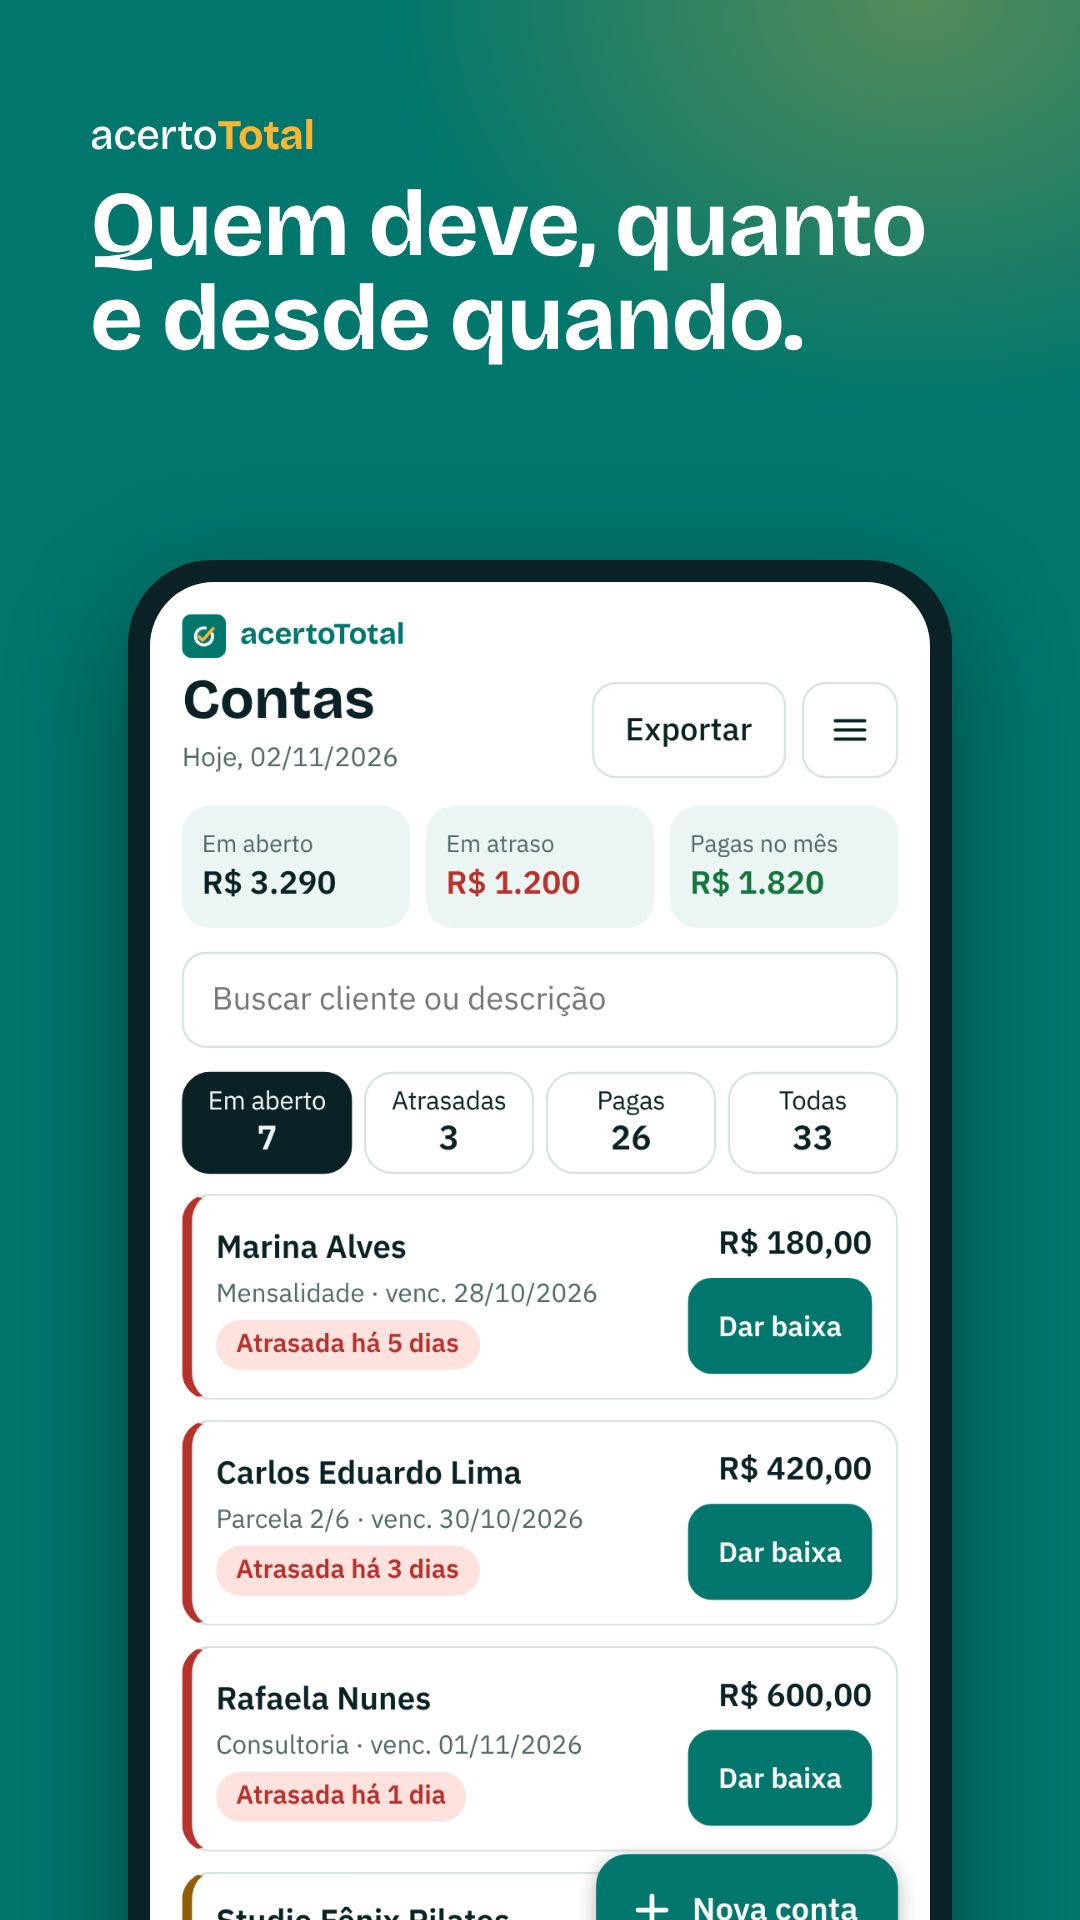
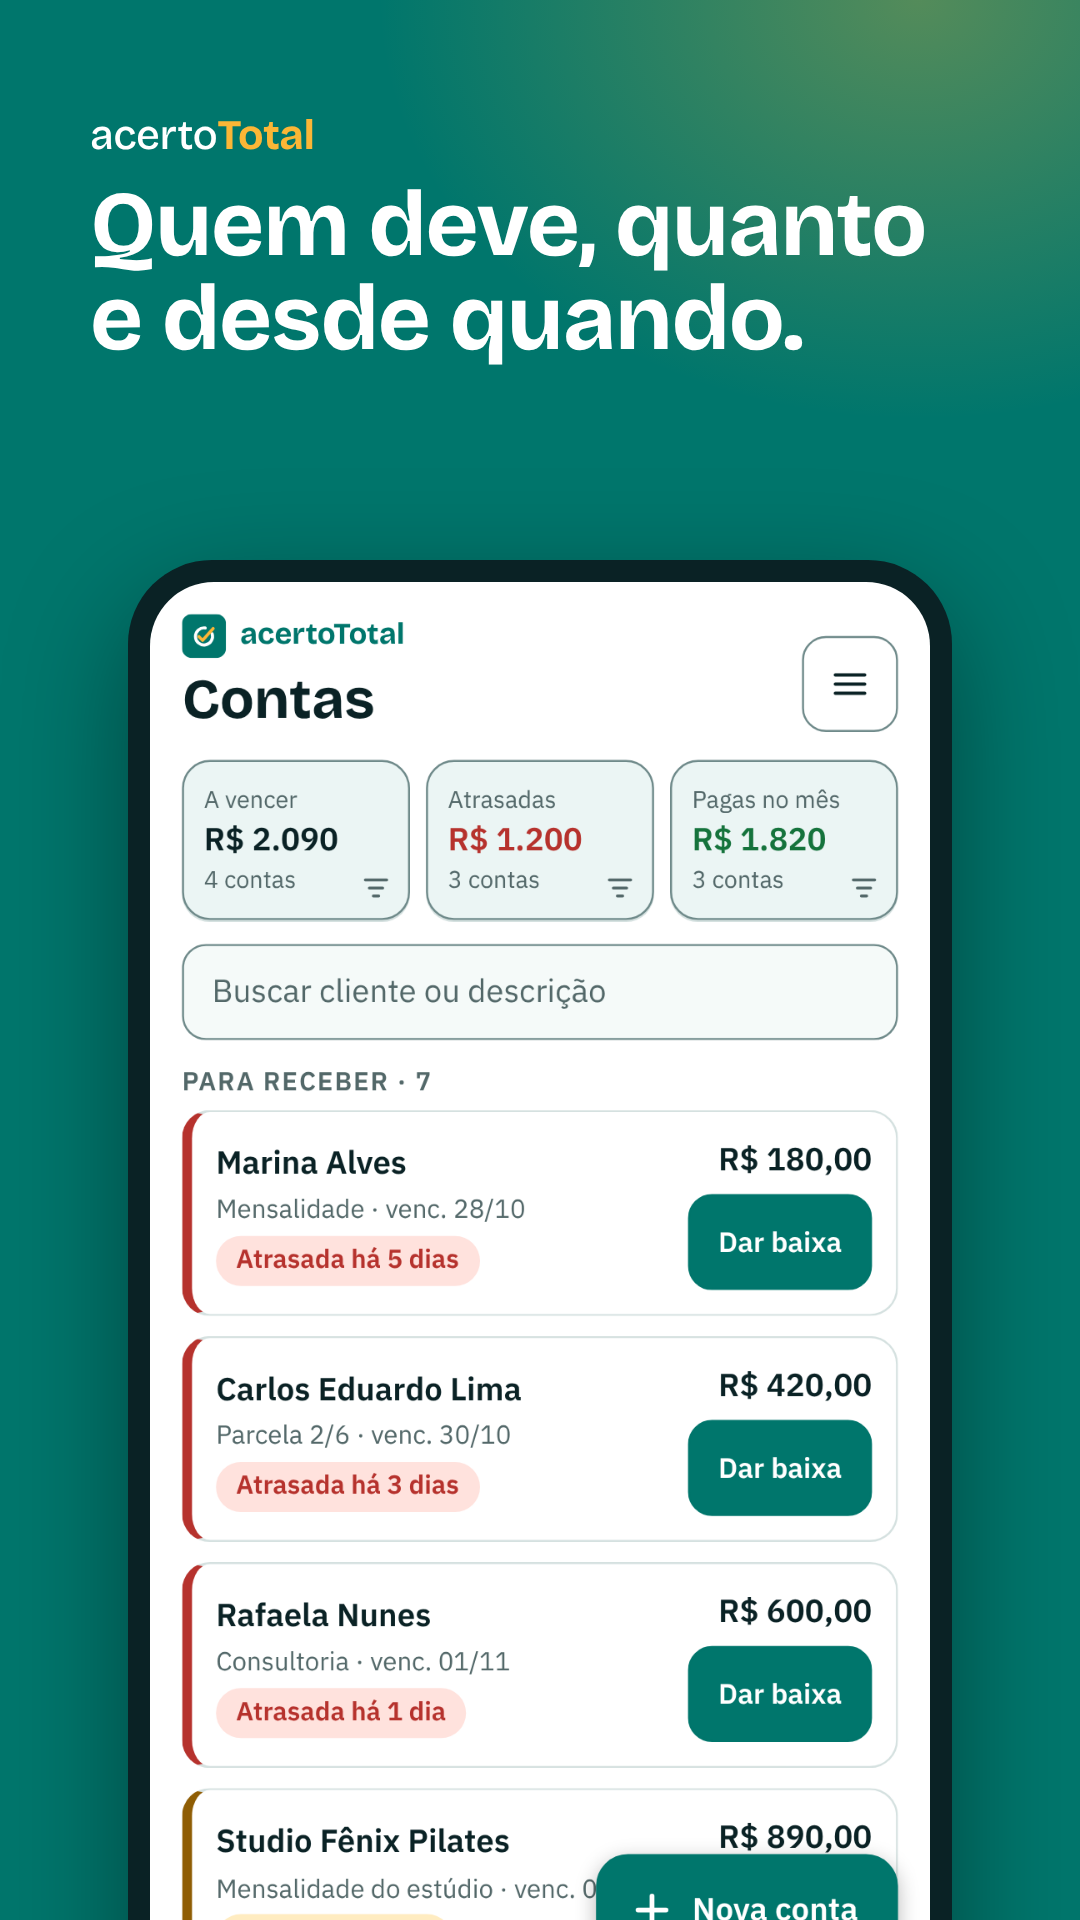
Loja 0.9.7: 8 capturas novas (Cobrar no WhatsApp em 2º) e ficha com a seção do WhatsApp
- gerar-capturas.js ajustado à tela nova; Meu negócio preenchido na captura de cobrança.
- Descrição curta (69) e completa com Cobre pelo WhatsApp, editar conta e filtros novos.
- Entrada A-041.

Claude-Session: https://claude.ai/code/session_01J62MCWX5zcbR5fnQHBq9k2

diff --git a/playstore/gerar-capturas.js b/playstore/gerar-capturas.js
@@ -25,24 +25,24 @@ await a.click('.crow .btn.primary');
 await a.setInputFiles('#fcomp',{name:'comprovante-pix.jpg',mimeType:'image/jpeg',buffer:Buffer.from(jpg,'base64')});
 await a.waitForFunction(()=>/Anexado/.test(document.getElementById('compname').textContent));
 await a.click('[data-act=baixa]');await a.waitForTimeout(300);
-// Cópia de segurança feita hoje (some o aviso amarelo e o selo vermelho "Nunca feita")
-await a.evaluate(()=>{const s=JSON.parse(localStorage.getItem('baixa-pix-v2'));s.ultimoBackup=new Date().toISOString().slice(0,10);localStorage.setItem('baixa-pix-v2',JSON.stringify(s))});
+// Cópia de segurança feita hoje (sem ponto vermelho no ☰ nem "Nunca feita") e "Meu negócio" preenchido (a cobrança mostra o Pix)
+await a.evaluate(()=>{const s=JSON.parse(localStorage.getItem('baixa-pix-v2'));s.ultimoBackup=new Date().toISOString().slice(0,10);s.negocio={nome:'Ana Costa · Doces e Bolos',pix:'contato@anacostadoces.com.br'};localStorage.setItem('baixa-pix-v2',JSON.stringify(s))});
 await a.reload();await a.waitForSelector('.crow');await a.waitForTimeout(1500);
 const raw=[];const tela=async n=>{await a.waitForTimeout(600);const f=S+'raw3-'+n+'.png';await a.screenshot({path:f});raw.push(f)};
 const volta=async()=>{await a.evaluate(()=>{while(window.acertoVoltar&&window.acertoVoltar());document.getElementById('screen').scrollTop=0});await a.waitForTimeout(200)};
-await tela(1);                                                             // Contas
-await a.click('.tabs [data-tab=clientes]');await tela(2);                  // Clientes
-await a.click('.tabs [data-tab=numeros]');await a.click('[data-act=periodo][data-p="3"]');await tela(3); // Números, 3 meses
-await a.click('.tabs [data-tab=planilha]');await tela(4);                  // Planilha
-await a.click('#screen [data-act=import-abrir]');await tela(5);            // Importar
-await volta();await a.click('.tabs [data-tab=contas]');await a.click('[data-act=filter][data-f=pagas]');
-await a.click(`.cmain[data-id="${compId}"]`);await tela(6);                // Conta paga com comprovante
-await volta();await a.click('.tabs [data-tab=clientes]');await a.click('#screen .row');await tela(7); // Ficha do cliente
-await volta();await a.click('.tabs [data-tab=contas]');await a.click('[data-act=filter][data-f=abertas]');await a.click('.fab');
+// A ordem importa: as primeiras capturas são as que mais aparecem na loja.
+await tela(1);                                                                                   // 1 Contas
+await a.click('.crow .cmain');await a.click('.sheet [data-act=cobrar]');await tela(2);           // 2 Cobrar pelo WhatsApp
+await volta();await a.click('.strip [data-f=pagas]');await a.click(`.cmain[data-id="${compId}"]`);await tela(3); // 3 Comprovante
+await volta();await a.click('.tabs [data-tab=clientes]');await tela(4);                         // 4 Clientes
+await a.click('.tabs [data-tab=numeros]');await a.click('[data-act=periodo][data-p="3"]');await tela(5); // 5 Números, 3 meses
+await a.click('.tabs [data-tab=planilha]');await tela(6);                                       // 6 Planilha
+await a.click('#screen [data-act=import-abrir]');await a.click('details.como > summary');await a.evaluate(()=>{document.querySelector('.sheet').scrollTop=0});await tela(7); // 7 Importar
+await volta();await a.click('.tabs [data-tab=contas]');await a.click('.strip [data-f=pagas]');await a.click('.fab'); // tira o filtro de Pagas
 await a.selectOption('#nc-cli',{index:3});await a.fill('#nc-desc','Mensalidade de dezembro');await a.fill('#nc-val','150,00');
-await a.click('.sheet h2');await tela(8);                                  // Nova conta preenchida
-const TIT=[['Quem deve, quanto','e desde quando.'],['Cada cliente pelo','CPF ou CNPJ.'],['Quanto entrou','e quanto falta.'],['Excel de ida','e de volta.'],['Confira tudo','antes de gravar.'],['Dê baixa e guarde','o comprovante.'],['Tudo de cada','cliente numa tela.'],['Cadastre uma conta','em poucos toques.']];
-const NOMES=['contas','clientes','numeros','planilha','importar','comprovante','cliente','nova-conta'];
+await a.click('.sheet h2');await tela(8);                                                       // 8 Nova conta preenchida
+const TIT=[['Quem deve, quanto','e desde quando.'],['Cobre no WhatsApp,','texto já pronto.'],['Dê baixa e guarde','o comprovante.'],['Quanto cada','cliente deve.'],['Quanto entrou','e quanto falta.'],['Excel de ida','e de volta.'],['Confira tudo','antes de gravar.'],['Cadastre uma conta','em poucos toques.']];
+const NOMES=['contas','cobrar','comprovante','clientes','numeros','planilha','importar','nova-conta'];
 fs.readdirSync(OUT+'capturas').forEach(f=>fs.unlinkSync(OUT+'capturas/'+f));
 const p=await b.newPage({viewport:{width:1080,height:1920}});
 for(let i=0;i<8;i++){

diff --git a/playstore/FICHA.md b/playstore/FICHA.md
@@ -41,8 +41,8 @@ Sai em `android/app/build/outputs/bundle/producaoRelease/app-producao-release.aa
 
 **Nome (até 30):** `acertoTotal: Contas a Receber`
 
-**Descrição curta (até 80, esta tem 77):**
-Saiba quem te deve e há quanto tempo. Dê baixa com comprovante e use o Excel.
+**Descrição curta (até 80, esta tem 69):**
+Saiba quem te deve, cobre pelo WhatsApp e dê baixa com o comprovante.
 
 **Descrição completa (até 4.000):**
 Chega de caderninho de fiado e de planilha bagunçada. O acertoTotal mostra, numa tela só, quem te deve, quanto e desde quando. É feito para quem vende e cobra depois: autônomos, pequenas lojas, academias, escolas, entregadores e prestadores de serviço.
@@ -50,11 +50,16 @@ Chega de caderninho de fiado e de planilha bagunçada. O acertoTotal mostra, num
 QUEM DEVE, NA HORA
 • Veja o total em aberto, o que está em atraso e o que entrou no mês.
 • Cada conta diz a situação por escrito: "Atrasada há 5 dias", "Vence em 3 dias", "Paga em 02/11".
-• Filtre por Em aberto, Atrasadas, Pagas ou Todas, e busque pelo nome do cliente.
+• Toque em A vencer, Atrasadas ou Pagas no mês para filtrar, e busque pelo nome do cliente ou pela descrição.
+
+COBRE PELO WHATSAPP
+• Toque em "Cobrar no WhatsApp" e a mensagem já vem pronta: o que o cliente deve, o vencimento e há quantos dias está atrasado.
+• Cadastre a sua chave Pix uma vez e ela vai em toda cobrança.
+• Confira e mude o texto antes de mandar. Quem envia é você, no seu WhatsApp.
 
 CLIENTES PELO CPF OU CNPJ
 • Cada cliente é identificado pelo CPF ou CNPJ, sem cadastro repetido.
-• Abra o cliente e veja todas as contas dele, quanto deve e o contato.
+• Abra o cliente e veja todas as contas dele, quanto deve e o contato. Errou um valor? Edite a conta.
 
 DÊ BAIXA COM O COMPROVANTE
 • Marque a conta como paga com um toque.
@@ -82,7 +87,7 @@ Use todos os recursos de graça no período de teste. Depois, o app continua abe
 
 O acertoTotal não movimenta dinheiro: ele não faz nem recebe pagamentos. Ele organiza o que você tem a receber.
 
-**Imagens** (em `playstore/`): `icone-512.png`, `grafico-destaque-1024x500.png` e as 8 capturas de `capturas/` (1080×1920), nesta ordem: Contas, Clientes, Números, Planilha, Importar, Comprovante, Cliente, Nova conta.
+**Imagens** (em `playstore/`): `icone-512.png`, `grafico-destaque-1024x500.png` e as 8 capturas de `capturas/` (1080×1920), nesta ordem: Contas, Cobrar no WhatsApp, Comprovante, Clientes, Números, Planilha, Importar, Nova conta.
 
 ## 5. Segurança dos dados (respostas)
 

diff --git a/docs/aprendizados.md b/docs/aprendizados.md
@@ -133,6 +133,18 @@ Cada regra tem um teste que a verifica. A suíte aparece entre colchetes.
 
 As entradas mais recentes ficam no topo.
 
+### A-041 · 02/11/2026 · Capturas e textos da loja para a 0.9.7
+- **Pedido do cliente:** novas imagens para subir na Play.
+- **O que foi feito:**
+  - `playstore/gerar-capturas.js` ajustado à tela nova. O filtro "Em aberto" não existe mais e o gerador quebrava nele.
+  - Captura nova **"Cobre no WhatsApp, texto já pronto."** na 2ª posição, com "Meu negócio" preenchido para o Pix aparecer.
+  - Clientes com o título "Quanto cada cliente deve." (a lista não mostra mais o CPF) e Importar com "Como montar a planilha?" aberto.
+  - A ficha da loja ganhou a seção "COBRE PELO WHATSAPP" e a frase sobre editar conta, e os filtros passaram a ter os nomes novos. Descrição curta com 69 caracteres.
+- **Problemas achados na revisão por foto:**
+  - O título "Cobre pelo WhatsApp com a mensagem pronta." ocupava 4 linhas e encostava no celular. Foi encurtado.
+  - A captura de Nova conta saía com o filtro de Pagas marcado ao fundo.
+- **Como evitar:** a regra R74 vale também quando a tela muda. Rode o gerador e revise as 8 capturas antes de entregar.
+
 ### A-040 · 02/11/2026 · "Faltam 7 dias" no artefato, que só vale no app em produção
 - **Relato do cliente:** "a mensagem de teste grátis diz que faltam 7 dias, mas isso só vai valer com o app em produção".
 - **Causa:** o protótipo usava 7 dias quando a página não definia o limite. Como o artefato é só para olhar, ele mostrava uma contagem que não vale ali (e que ainda diferia dos 32 dias do app da Play na aprovação).
